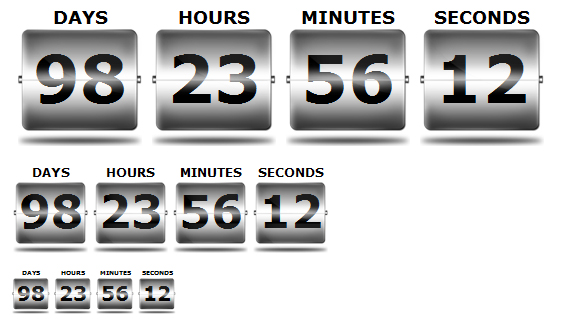
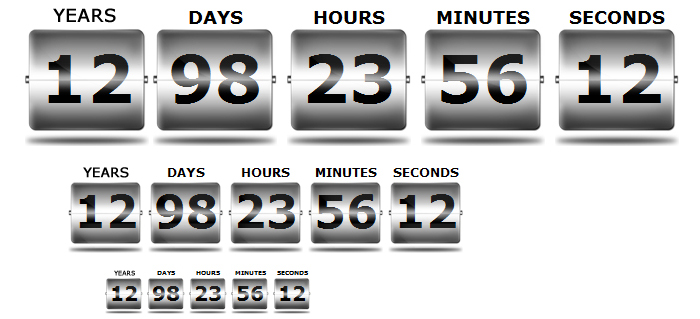
update to 3.0.1.0
git-svn-id: https://plugins.svn.wordpress.org/live-countdown-timer/trunk@479991 b8457f37-d9ea-0310-8a92-e5e31aec5664

diff --git a/script.js b/script.js
@@ -12,35 +12,57 @@ function setlct(datetime){
     var minutes=seconds*60;
     var hours=minutes*60;
     var days=hours*24;
-    //var years=days*365;
+    var years=days*365;
         
-    var db_time = new Date(tempdate[1]+' '+tempdate[2]+', '+tempdate[0]+' '+temptime[0]+':'+temptime[1]+':00' );
+    var db_time = new Date(tempdate[1]+' '+tempdate[2]+', '+tempdate[0]+' '+temptime[0]+':'+temptime[1]+':00');
     var now_time = new Date();
     db_time = db_time.getTime();
     now_time = now_time.getTime();
     var lctresult = db_time-now_time;
         
-    lct_days = Math.floor(lctresult/days);
-    lct_hours = Math.floor(lctresult/hours)-(lct_days*24);
-    lct_minutes = Math.floor(lctresult/minutes)-(lct_hours*60)-(lct_days*24*60);
-    lct_seconds = Math.floor(lctresult/seconds)-(lct_minutes*60)-(lct_hours*60*60)-(lct_days*60*24*60);
-    if(lct_days>99)lct_days=99;
+    lct_years = Math.floor(lctresult/years);
+    lct_days = Math.floor(lctresult/days)-(lct_years*365);
+    lct_hours = Math.floor(lctresult/hours)-(lct_days*24)-(lct_years*365*24);
+    lct_minutes = Math.floor(lctresult/minutes)-(lct_hours*60)-(lct_days*24*60)-(lct_years*365*24*60);
+    lct_seconds = Math.floor(lctresult/seconds)-(lct_minutes*60)-(lct_hours*60*60)-(lct_days*60*24*60)-(lct_years*365*24*60*60);
+    singlebox=false;
+    if(lct_years>99){
+        lct_years=99;
+    }
+    if(lct_days>99){
+
+        singlebox=true;
+    }
+    if(lct_years<0)lct_years=0;
     if(lct_days<0)lct_days=0;
-    if(lct_hours>24)lct_hours=24;
     if(lct_hours<0)lct_hours=0;
     if(lct_minutes>60)lct_minutes=60;
     if(lct_minutes<0)lct_minutes=0;
-    if(lct_seconds>60)lct_seconds=60;
     if(lct_seconds<0)lct_seconds=0;
+        
        
-    if(jQuery('.LCT').find('div.type').siblings().length==4){
-        jQuery('.LCT').find('div:nth-child(1) .bg p').html(lct_days);
-        jQuery('.LCT').find('div:nth-child(2) .bg p').html(lct_hours);
-        jQuery('.LCT').find('div:nth-child(3) .bg p').html(lct_minutes);
-        jQuery('.LCT').find('div:nth-child(4) .bg p').html(lct_seconds);
+    if(jQuery('.LCT').find('div.type').siblings().length==5){
+        jQuery('.LCT').find('div:nth-child(1) .bg p').html(lct_years);
+        jQuery('.LCT').find('div:nth-child(2) .bg p').html(lct_days);
+        jQuery('.LCT').find('div:nth-child(3) .bg p').html(lct_hours);
+        jQuery('.LCT').find('div:nth-child(4) .bg p').html(lct_minutes);
+        jQuery('.LCT').find('div:nth-child(5) .bg p').html(lct_seconds);
+        
+        if(jQuery('.LCT div:nth-child(2)').hasClass('big')){
+            if(singlebox==true)jQuery('.LCT  div:nth-child(2).big .bg p').addClass("evensmaller");
+        }
+        if(jQuery('.LCT div:nth-child(2).medium').hasClass('medium')){
+            if(singlebox==true)jQuery('.LCT div:nth-child(2).medium .bg p').addClass("evensmaller");
+        }
+        if(jQuery('.LCT div:nth-child(2).small').hasClass('small')){
+            if(singlebox==true)jQuery('.LCT div:nth-child(2).small .bg p').addClass("evensmaller");
+        }
     }else{
-        if(lct_days!=0 && lct_days>0){
-            jQuery('.LCT').find('div .bg p').html(lct_days);            
+        if(lct_years!=0 && lct_years>0){
+            jQuery('.LCT').find('div .bg p').html(lct_years);
+            jQuery('.LCT div .type').html('YEARS');
+        }else if(lct_days!=0 && lct_days>0){
+            jQuery('.LCT').find('div .bg p').html(lct_days);
             jQuery('.LCT div .type').html('DAYS');
         }else if(lct_hours!=0 && lct_hours>0){
             jQuery('.LCT').find('div .bg p').html(lct_hours);
@@ -53,6 +75,15 @@ function setlct(datetime){
             jQuery('.LCT div .type').html('SECONDS');
         }
         
+        if(jQuery('.LCT div:nth-child(1).big').length!=0){
+            if(singlebox==true)jQuery('.LCT  div:nth-child(1).big .bg p').addClass("evensmaller");
+        }
+        if(jQuery('.LCT div:nth-child(1).medium').length!=0){
+            if(singlebox==true)jQuery('.LCT div:nth-child(1).medium .bg p').addClass("evensmaller");
+        }
+        if(jQuery('.LCT div:nth-child(1).small').length!=0){
+            if(singlebox==true)jQuery('.LCT div:nth-child(1).small .bg p').addClass("evensmaller");
+        }
     }
 
     var lctTimer = setInterval("setlct("+datetime+");", 1000 );

diff --git a/style.css b/style.css
@@ -5,18 +5,21 @@ body .LCT .big{width:124px;height:143px;margin-left:10px;}
 body .LCT .big .type{width:124px;height:20px;text-align:center; font-size:18px;margin-bottom:3px;}
 body .LCT .big .bg{width:124px;height:117px;background:url(images/big_bg.png);text-align:center;}
 body .LCT .big .bg p{width:124px;height:117px;text-align: center; margin:0px;padding:0px;font-size:66px;padding-top:8px;line-height:80px;color:#000;}
+body .LCT .big .bg p.evensmaller{font-size:48px;}
 body .LCT .big .bg .over{margin-left:4px;width:115px;height:65px;background:url(images/big_over.png);margin-top:-124px;}
 /*medium*/
 body .LCT .medium{width:75px;height:88px;margin-left:5px;}
 body .LCT .medium .type{width:75px;height:14px;text-align:center; font-size:12px;margin-bottom:3px;}
 body .LCT .medium .bg{width:75px;height:71px;background:url(images/medium_bg.png);text-align:center;}
 body .LCT .medium .bg p{width:75px;height:71px;text-align: center; margin:0px;padding:0px;font-size:45px;padding-top:1px;line-height:55px;color:#000;}
+body .LCT .medium .bg p.evensmaller{font-size:32px;}
 body .LCT .medium .bg .over{margin-left:4px;width:69px;height:65px;background:url(images/medium_over.png);left:0px;margin-top:-71px;}
 /*small*/
 body .LCT .small{width:38px;height:48px;margin-left:4px;line-height:23px;color:#000;}
 body .LCT .small .type{width:38px;height:6px;text-align:center; font-size:6px;margin-bottom:3px;line-height:6px;color:#000;}
 body .LCT .small .bg{width:38px;height:36px;background:url(images/small_bg.png);text-align:center;}
 body .LCT .small .bg p{width:38px;height:36px;text-align: center; margin:0px;padding:0px;font-size:20px;padding-top:2px;line-height:23px;color:#000;}
+body .LCT .small .bg p.evensmaller{font-size:14px;}
 body .LCT .small .bg .over{margin-left:2px;width:35px;height:21px;background:url(images/small_over.png);margin-top:-37px;}
 
 

diff --git a/live-countdown-timer.php b/live-countdown-timer.php
@@ -6,7 +6,7 @@
   Description: Live Countdown Timer to an important event you want to show
   Author: Turcu Ciprian
   License: GPL
-  Version: 3.0.0.2
+  Version: 3.0.1.0
   Author URI: http://www.chipree.com/
 
  */
@@ -40,7 +40,7 @@ class lct_Widget extends WP_Widget {
         if (!$_POST) {
             ?>
             <script type="text/javascript">
-                            
+                                                                
                 jQuery(".lct_dtp").live('hover',function(){
                     jQuery(".lct_dtp").datetimepicker({
                         format:'m/d/Y',
@@ -67,13 +67,13 @@ class lct_Widget extends WP_Widget {
             <option <?php if ($lct_vArr['lct_type'] == "2")
             echo "selected"; ?> value="2">Medium (Single box)</option>
             <option <?php if ($lct_vArr['lct_type'] == "3")
-            echo "selected"; ?> value="3">Small (Single box-4 box)</option>
+            echo "selected"; ?> value="3">Small (Single box)</option>
             <option <?php if ($lct_vArr['lct_type'] == "4")
-            echo "selected"; ?> value="4">Big (complete timer-4 box)</option>
+            echo "selected"; ?> value="4">Big (complete timer-5 box)</option>
             <option <?php if ($lct_vArr['lct_type'] == "5")
-            echo "selected"; ?> value="5">Medium (complete timer-4 box)</option>
+            echo "selected"; ?> value="5">Medium (complete timer-5 box)</option>
             <option <?php if ($lct_vArr['lct_type'] == "6")
-            echo "selected"; ?> value="6">Small (complete timer-4 box)</option>
+            echo "selected"; ?> value="6">Small (complete timer-5 box)</option>
         </select><br/>  
         Pick Date and Time:<br/>   
         <input type="text" name="lct_datetime" class="lct_dtp" value="<?php echo $lct_vArr['lct_datetime']; ?>"/><br/>
@@ -120,6 +120,7 @@ class lct_Widget extends WP_Widget {
                 break;
             case "4":
                 echo '<div class="LCT">';
+                echo '<div class="big"><div class="type">YEARS</div><div class="bg"><p>--</p><div class="over"></div></div></div>';
                 echo '<div class="big"><div class="type">DAYS</div><div class="bg"><p>--</p><div class="over"></div></div></div>';
                 echo '<div class="big"><div class="type">HOURS</div><div class="bg"><p>--</p><div class="over"></div></div></div>';
                 echo '<div class="big"><div class="type">MINUTES</div><div class="bg"><p>--</p><div class="over"></div></div></div>';
@@ -128,6 +129,7 @@ class lct_Widget extends WP_Widget {
                 break;
             case "5":
                 echo '<div class="LCT">';
+                echo '<div class="medium"><div class="type">YEARS</div><div class="bg"><p>--</p><div class="over"></div></div></div>';
                 echo '<div class="medium"><div class="type">DAYS</div><div class="bg"><p>--</p><div class="over"></div></div></div>';
                 echo '<div class="medium"><div class="type">HOURS</div><div class="bg"><p>--</p><div class="over"></div></div></div>';
                 echo '<div class="medium"><div class="type">MINUTES</div><div class="bg"><p>--</p><div class="over"></div></div></div>';
@@ -136,6 +138,7 @@ class lct_Widget extends WP_Widget {
                 break;
             case "6":
                 echo '<div class="LCT">';
+                echo '<div class="small"><div class="type">YEARS</div><div class="bg"><p>--</p><div class="over"></div></div></div>';
                 echo '<div class="small"><div class="type">DAYS</div><div class="bg"><p>--</p><div class="over"></div></div></div>';
                 echo '<div class="small"><div class="type">HOURS</div><div class="bg"><p>--</p><div class="over"></div></div></div>';
                 echo '<div class="small"><div class="type">MINUTES</div><div class="bg"><p>--</p><div class="over"></div></div></div>';
